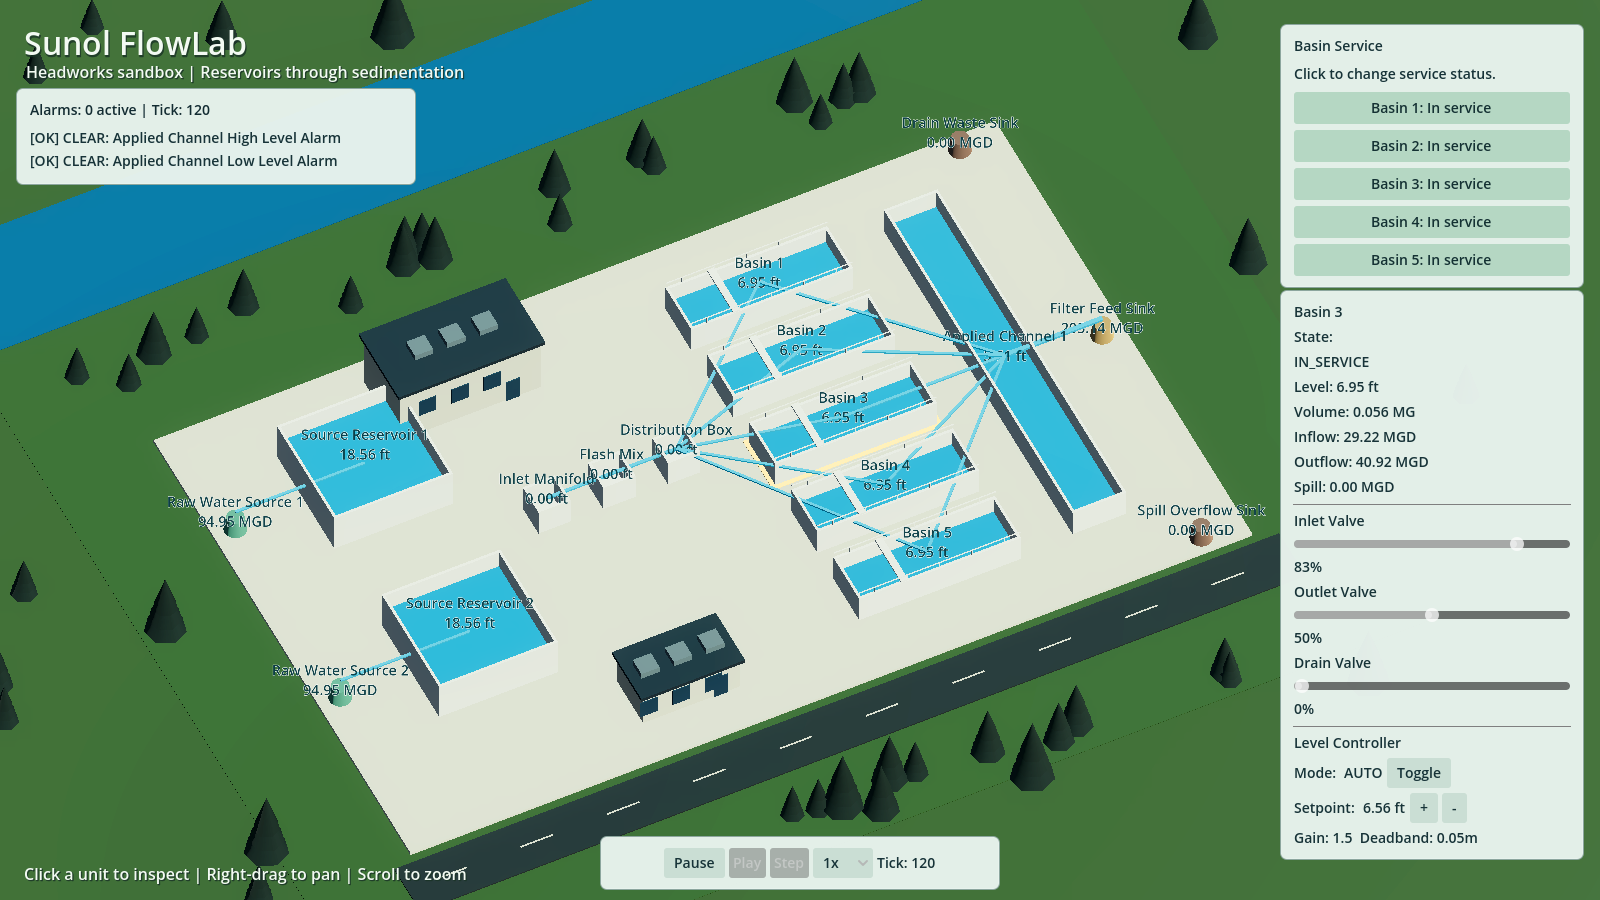
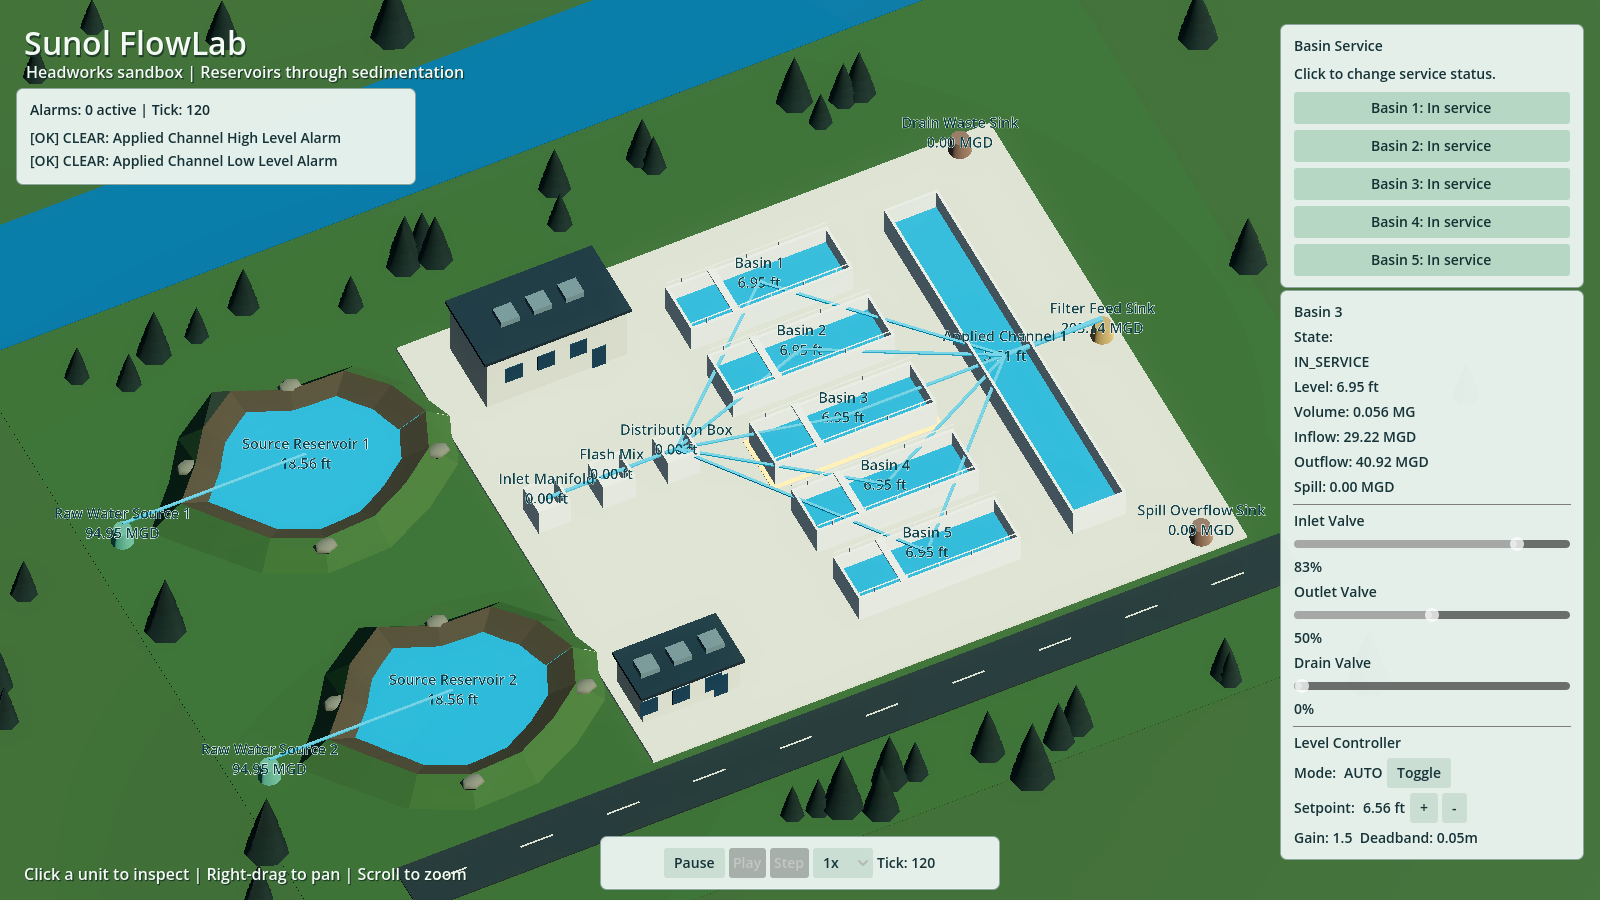
fix: show the source reservoirs as lakes with natural banks
fix: show the source reservoirs as lakes with natural banks

The user clarified that the raw-water reservoirs are lakes. Their existing presentation-map mesh_path now explicitly selects a native lake scene with an irregular bed, low sloping earth banks, shore rocks and snapshot-driven water. The concrete plant apron stops beside the lakes. The shared unit adapter remains the only level-mapping authority; the new geometry class does not read the engine or calculate volume/flow. Refreshed the running/offline screenshots and reopened the playable preview.

No unit-ID substring/capacity classification selects the lake shape. No hydraulic fields, schemas, storage capacities, initial conditions, flow/control behavior or downstream stages changed. WP4.7 remains open. Changed files and display scales are recorded in docs/HEADWORKS_VISUAL_PREVIEW.md and docs/PRESENTATION_MAPPING.md.

Executed full GUT output (before the final shore-height adjustment):
Scripts              34
Tests               110
Passing Tests       110
Asserts           513421
Time              170.195s
---- All tests passed! ----
Loaded test-script count: 34
Verified 34 of 34 test scripts; Godot exit status 0.
Total collected 110; passed 110; failed 0.

After the final geometry adjustment, the relevant presentation suite executed:
Scripts               2
Tests                 9
Passing Tests         9
Asserts              92
Time              0.496s
Verified 2 of 2 test scripts; Godot exit status 0.
[…]

diff --git a/docs/HEADWORKS_VISUAL_PREVIEW.md b/docs/HEADWORKS_VISUAL_PREVIEW.md
@@ -11,9 +11,11 @@ This pass is not WP4.7 and does not close the Phase 3 / WP4.1 audit gate.
 
 ## Delivered
 
-- A compact site with two raw-water reservoirs, five open basins and the applied channel.
+- A compact site with two lake-like raw-water reservoirs, five open basins and the applied channel.
   Native Godot meshes form concrete walls, access bridges and simple railings; there are
-  no new third-party downloads or runtime asset dependencies.
+  no new third-party downloads or runtime asset dependencies. Reservoirs use irregular
+  earth banks, exposed soil and shore rocks instead of concrete tank walls. The site apron
+  stops beside the lakes; their drawing is illustrative and leaves the storage model intact.
 - Static operations buildings, service road, trees, hills and a scenic river. These are
   illustrative context, not additional modeled process units or connected water bodies.
 - Snapshot-driven water surfaces, levels, offline labels and flow bars. Display scales
@@ -104,3 +106,38 @@ Existing shutdown diagnostics remain: the scene reports 129 ObjectDB instances a
 6 resources in use at exit; the first full run reports 4,937 instances and 6 resources.
 The added main-scene integration test instantiates another production context, exposing
 the existing cleanup issue again. This task does not resolve that lifecycle limitation.
+
+## Lake-reservoir correction
+
+The user clarified that the source reservoirs are lakes. The explicit custom scene
+`scenes/process_units/reservoirs/lake_reservoir.tscn` uses
+`scripts/presentation/headworks/headworks_lake_visual.gd` for static terrain and water
+mesh creation. The common `HeadworksUnitVisual` adapter remains the only snapshot-level
+mapping authority; the new geometry class does not read the engine or calculate volume.
+Existing `mesh_path` fields select this scene for both reservoirs, so this behavior does
+not depend on unit-ID substrings or capacity heuristics. No schema fields changed.
+
+After the final shoreline-height adjustment, the presentation subset executed:
+
+```text
+Scripts               2
+Tests                 9
+Passing Tests         9
+Asserts              92
+Time              0.496s
+Verified 2 of 2 test scripts; Godot exit status 0.
+```
+
+Collected 9, passed 9, failed 0. The production lake adapter is swept from dry to full,
+its water position is monotone, both reservoir placements select the lake scene, and
+snapshot inputs are unchanged. Updated graphical captures saved at ticks 120 and 200;
+viewport picking still passed. Visual review caught and corrected triangle winding and
+water extending outside the banks before delivery. Config validation accepted all 17
+plant JSON files and rejected all 6 invalid fixtures, exit 0. These checks supplement
+the full regression run; the 109-test record above is the earlier visual-pass baseline.
+
+The expanded full regression run, before the final shoreline-height adjustment, returned
+exit 0 with 34 scripts, 110 collected, 110 passed, 0 failed, 513,421 asserts and 170.195 s.
+It included the same 100k-tick, replay, conservation, nonnegative-storage and parity checks.
+The final geometry adjustment was then verified by the 9-test subset and graphical
+captures above; CI executes the complete suite again on the published correction.

diff --git a/CHANGELOG.md b/CHANGELOG.md
@@ -5,6 +5,7 @@ All notable changes to this project will be documented in this file. The format 
 ## [Unreleased]
 
 ### Changed
+- **Headworks visual correction (user requested)**: The two source reservoirs now use lake-like water surfaces with irregular natural banks and rocks, selected explicitly through the existing presentation mesh path. Moved the concrete plant apron away from the lakes and retained the original storage/flow model. Added lake level/zero-water tests and refreshed the running/offline screenshots.
 - **Headworks visual preview (user requested)**: Replaced the blueprint presentation with an illustrative landscaped site, open concrete basins, snapshot-driven water, an oblique camera, selectable units and a compact inspector/service layout. Added reproducible running/offline screenshots and production-adapter tests. No hydraulic behavior or downstream treatment stages changed; WP4.7 remains open. Also fixed the WP4.6 runner's loaded-count parsing for Windows CRLF output.
 - **WP4.6 / CI verification**: Derived expected test-script counts from `tests/**/test_*.gd` and moved the workflow's defensive checks into the existing `tools/ci/run_tests.sh`. The runner prints derived and loaded counts, rejects missing/ambiguous totals, skipped/risky/pending tests, zero-test runs, script errors, failures, and nonzero Godot exits. CI exercises temporary real GUT fixtures before the full suite; fixtures are cleaned on exit. Removed manual count maintenance from agent guidance. Simulation, scenes, plant configuration, and schemas are unchanged.
 - **WP4.5 / startup and alarms**: Moved the four upstream demonstration valve targets into headworks initial conditions, preserving actuator travel from closed and removing scene-local startup commands. Registered both configured applied-channel alarms directly in the bootstrap and reused `PresentationMapHandler.load_map()`. Added a snapshot-driven alarm panel with active/clear text, symbols, and tick context. Added configured-startup, headless/visual outage parity, alarm activation/clearing, empty-channel low-alarm, and snapshot integrity tests; extended low-alarm delay/deadband coverage. The manifold-combining test now verifies the sum of actual reservoir contributions instead of an obsolete startup-dependent baseline. CI expects 34 test scripts until WP4.6 replaces the manual count.

diff --git a/docs/PRESENTATION_MAPPING.md b/docs/PRESENTATION_MAPPING.md
@@ -70,12 +70,21 @@ ambient motion are not proof-of-concept requirements.
 The main scene uses a compact illustrative site layout, rather than a surveyed plant.
 Open concrete walls surround water volumes supplied only by snapshot `level_m`.
 For each unit, `r = clamp(level_m / max_level_m, 0, 1)` and displayed water depth is
-`max(visual_height * r - 0.15, 0)`; a zero depth hides water. Display heights are 4 m
-for reservoirs, 2.8 m for the five basins, channel and small junctions. Model ranges
+`max(visual_height * r - 0.15, 0)`; a zero depth hides water. Display heights are 1.6 m
+for the lake reservoirs, 2.8 m for the five basins, channel and small junctions. Model ranges
 are respectively 0–10 m, 0–5 m, 0–5 m and 0–10 m, defined by the existing config.
 These are compressed, per-unit display scales, not literal hydraulic elevations.
 Numeric labels retain actual snapshot levels, including over-range values, and
 convert them to feet through `DisplayUnits`. No interpolation or render lag is added.
+
+The two reservoir placements explicitly select `lake_reservoir.tscn` via the existing
+`mesh_path` field. `HeadworksLakeVisual` builds a static irregular bed and sloping earth
+banks, plus a horizontal water mesh; it does not identify units by name or capacity.
+The common unit adapter moves that surface to `displayed_depth + 0.05` scene metres,
+with zero hiding the surface. Rising water covers more of the sloping inner banks.
+The footprint (26×22 scene metres) and banks are illustrative, not a reservoir survey,
+and do not change configured storage geometry or conservation. No shoreline animation,
+river hydraulics or additional simulation fields are introduced.
 
 Flow bars show snapshot `actual_flow_m3s`, bounded by each link's configured
 `max_flow_m3s`. Width is `lerp(0.10, 0.45, clamp(actual/max, 0, 1))` in scene units;
